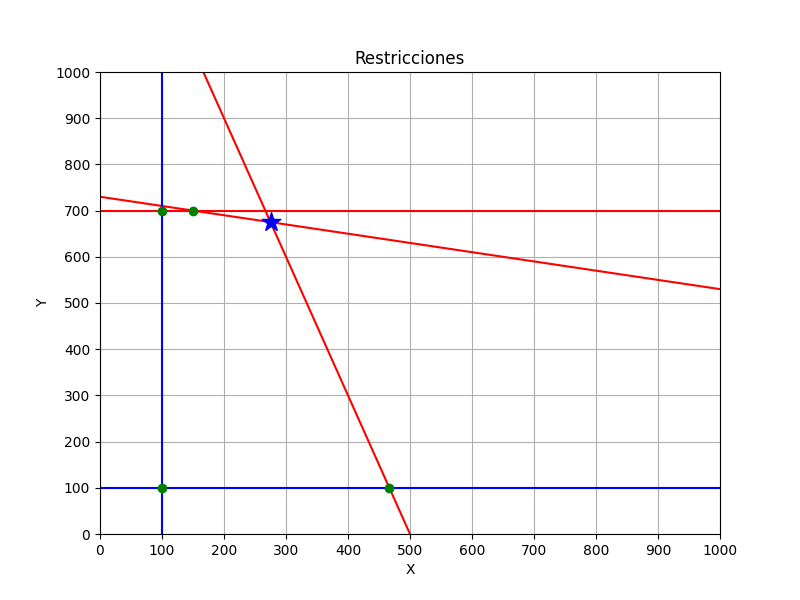
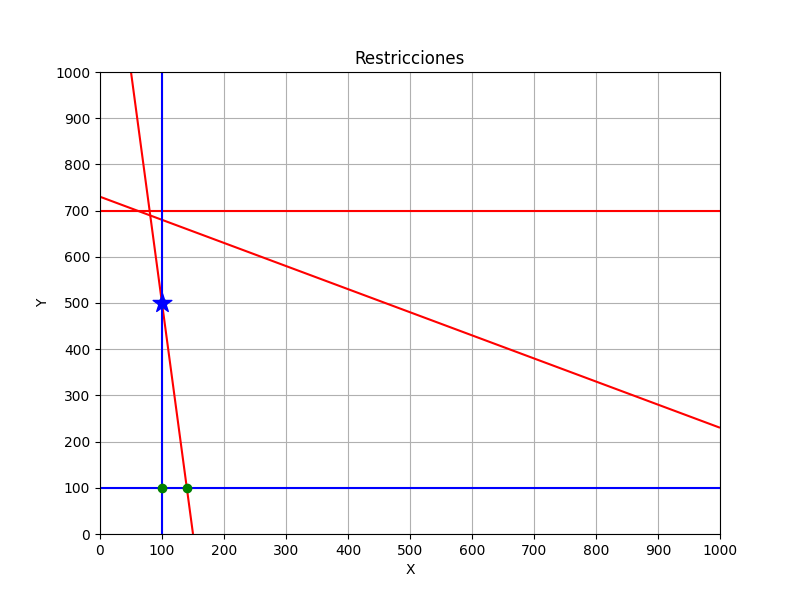
En el main se agrego '../' para guarda img Codigo conectado a excel (intentoArreglo)

diff --git a/src/intentoArreglo.py b/src/intentoArreglo.py
@@ -1,6 +1,26 @@
+import openpyxl
 import numpy as np
 import matplotlib.pyplot as plt
 from pulp import *
+
+# Tomo los valores del excel, solo modificar los num en el excel 
+
+wb = openpyxl.load_workbook("problema.xlsx")
+sheet = wb.active
+funcionObjetivo = [sheet["C3"].value, sheet["D3"].value, sheet["E3"].value]
+restriccionesMenorIgual = [
+    [sheet["C4"].value, sheet["D4"].value, sheet["E4"].value],
+    [sheet["C5"].value, sheet["D5"].value, sheet["E5"].value],
+    [sheet["C6"].value, sheet["D6"].value, sheet["E6"].value],
+]
+restriccionesMayorIgual = [
+    [sheet["C7"].value, sheet["D7"].value, sheet["E7"].value],
+    [sheet["C8"].value, sheet["D8"].value, sheet["E8"].value],
+]
+
+print(funcionObjetivo)
+print(restriccionesMenorIgual)
+print(restriccionesMayorIgual)
 
 #####################################
 #### Para obtener solución óptima ###
@@ -16,11 +36,11 @@ x = LpVariable("x", lowBound=100)
 y = LpVariable("y", 100, 700)
 
 # Función objetivo
-problema += x + 4 * y, "obj"
+problema += funcionObjetivo[0] * x + funcionObjetivo[1] * y, "obj"
 
 # Restricciones
-problema += 20 * x + 100 * y <= 73000, "cl_1"
-problema += 30 * x + 10 * y <= 15000, "cl_2"
+problema += restriccionesMenorIgual[0][0] * x + restriccionesMenorIgual[0][1] * y <= restriccionesMenorIgual[0][2], "cl_1"
+problema += restriccionesMenorIgual[1][0] * x + restriccionesMenorIgual[1][1] * y <= restriccionesMenorIgual[1][2], "cl_2"
 problema.solve()
 
 # Valores óptimos de x e y
@@ -35,17 +55,6 @@ print(f"Max Z = {value(problema.objective)}")
 #### Para graficas las restricciones ####
 #########################################
 
-### Formato [Cant1X, Cant2Y, LadoDerecho] ###
-restriccionesMenorIgual = [
-    [20, 100, 73000],
-    [30, 10, 15000],
-    [0, 1, 700],
-]
-restriccionesMayorIgual = [
-    [1,0,100],
-    [0,1,100]
-]
-
 ### Encontrar todos los puntos de interseccion entre las rectas de las restricciones ###
 puntos_interseccion = []
 
@@ -58,6 +67,7 @@ def encontrar_interseccion(restriccion1, restriccion2):
         return punto
     except np.linalg.LinAlgError:
         return None
+
 
 # Iterar a través de todas las combinaciones de restricciones, Para encontrar las intersecciones
 for i, restriccion1 in enumerate(restriccionesMenorIgual + restriccionesMayorIgual):
@@ -102,16 +112,16 @@ plt.figure(figsize=(8, 6))
 # Calcular las desigualdades para las restricciones MenorIgual
 for restriccion in restriccionesMenorIgual:
     Z = restriccion[0] * X + restriccion[1] * Y - restriccion[2]
-    plt.contour(X, Y, Z, levels=[0], colors='r')
+    plt.contour(X, Y, Z, levels=[0], colors="r")
 
 # Calcular las desigualdades para las restricciones MayorIgual
 for restriccion in restriccionesMayorIgual:
     Z = restriccion[0] * X + restriccion[1] * Y - restriccion[2]
-    plt.contour(X, Y, Z, levels=[0], colors='b')
+    plt.contour(X, Y, Z, levels=[0], colors="b")
 
 # Configurar los ejes y mostrar el gráfico
-plt.xlabel('X')
-plt.ylabel('Y')
+plt.xlabel("X")
+plt.ylabel("Y")
 plt.title("Restricciones")
 plt.xticks(np.arange(0, 1001, 100))
 plt.yticks(np.arange(0, 1001, 100))
@@ -119,11 +129,13 @@ plt.grid(True)
 
 # Para mostrar los puntos en la región factible
 x_puntos, y_puntos = zip(*puntosPolinomio)
-plt.scatter(x_puntos, y_puntos, c='green', label='Puntos', marker='o', zorder=10)
-plt.scatter(x_opt, y_opt, marker="*", label="Punto Óptimo", s=200, color="blue", zorder=11)
+plt.scatter(x_puntos, y_puntos, c="green", label="Puntos", marker="o", zorder=10)
+plt.scatter(
+    x_opt, y_opt, marker="*", label="Punto Óptimo", s=200, color="blue", zorder=11
+)
 
 # Guardar y mostrar la figura
-plt.savefig('../images/restricciones.png')
+plt.savefig("../images/restricciones.png")
 plt.show()
 
 # Para Graficar zona factible
@@ -132,11 +144,11 @@ y = np.linspace(0, 1000, 400)
 x, y = np.meshgrid(x, y)
 
 # Definir las restricciones
-condicion1 = 20*x + 100*y <= 73000
-condicion2 = 30*x + 10*y <= 15000
-condicion3 = y <= 700
-condicion4 = x >= 100
-condicion5 = y >= 100
+condicion1 = restriccionesMenorIgual[0][0] * x + restriccionesMenorIgual[0][1] * y <= restriccionesMenorIgual[0][2]
+condicion2 = restriccionesMenorIgual[1][0] * x + restriccionesMenorIgual[1][1] * y <= restriccionesMenorIgual[1][2]
+condicion3 = restriccionesMenorIgual[2][1] * y <= 700
+condicion4 = restriccionesMayorIgual[0][0] * x >= restriccionesMayorIgual[0][2]
+condicion5 = restriccionesMayorIgual[1][1] * y >= restriccionesMayorIgual[1][2]
 
 # Combinar las restricciones con AND
 region_de_interes = condicion1 & condicion2 & condicion3 & condicion4 & condicion5
@@ -157,16 +169,41 @@ plt.grid(True)
 
 # Para mostrar los puntos en la región factible
 x_puntos, y_puntos = zip(*puntosPolinomio)
-plt.scatter(x_puntos, y_puntos, c='red', label='Puntos', marker='o')
+plt.scatter(x_puntos, y_puntos, c="red", label="Puntos", marker="o")
 plt.scatter(x_opt, y_opt, marker="*", label="Punto Óptimo", s=200, color="green")
 plt.legend()
 plt.xticks(np.arange(0, 1001, 100))
 plt.yticks(np.arange(0, 1001, 100))
 plt.grid(True)
 
-plt.text(x_opt + 20, y_opt + 20, f'Punto Óptimo: ({x_opt}, {y_opt})', fontsize=12)
-plt.text(x_opt + 20, y_opt + 70, f'Max Z = {value(problema.objective)}', fontsize=12)
+plt.text(x_opt + 20, y_opt + 20, f"Punto Óptimo: ({x_opt}, {y_opt})", fontsize=12)
+plt.text(x_opt + 20, y_opt + 70, f"Max Z = {value(problema.objective)}", fontsize=12)
 
 # Guardar y mostrar la figura
-plt.savefig('../images/region_factible.png')
+plt.savefig("../images/region_factible.png")
 plt.show()
+
+
+###################################################################
+#### Obtener la solucion optima, pero con el arreglo de puntos ####
+###################################################################
+
+# Func optima
+def f(x, y):
+    return funcionObjetivo[0] * x + funcionObjetivo[1] * y
+
+# Vertices de la zona factible
+print(puntosPolinomio)
+
+# Guarda los resultados en el arreglo tras evaluarlos en la funcion
+resultados = []
+for punto in puntosPolinomio:
+    x, y = punto
+    resultado = f(x, y)
+    resultados.append(resultado)
+
+# Imprime los resultados
+for i, punto in enumerate(puntosPolinomio):
+    x, y = punto
+    resultado = resultados[i]
+    print(f"En el punto ({x}, {y}), f(x, y) = {resultado}")
